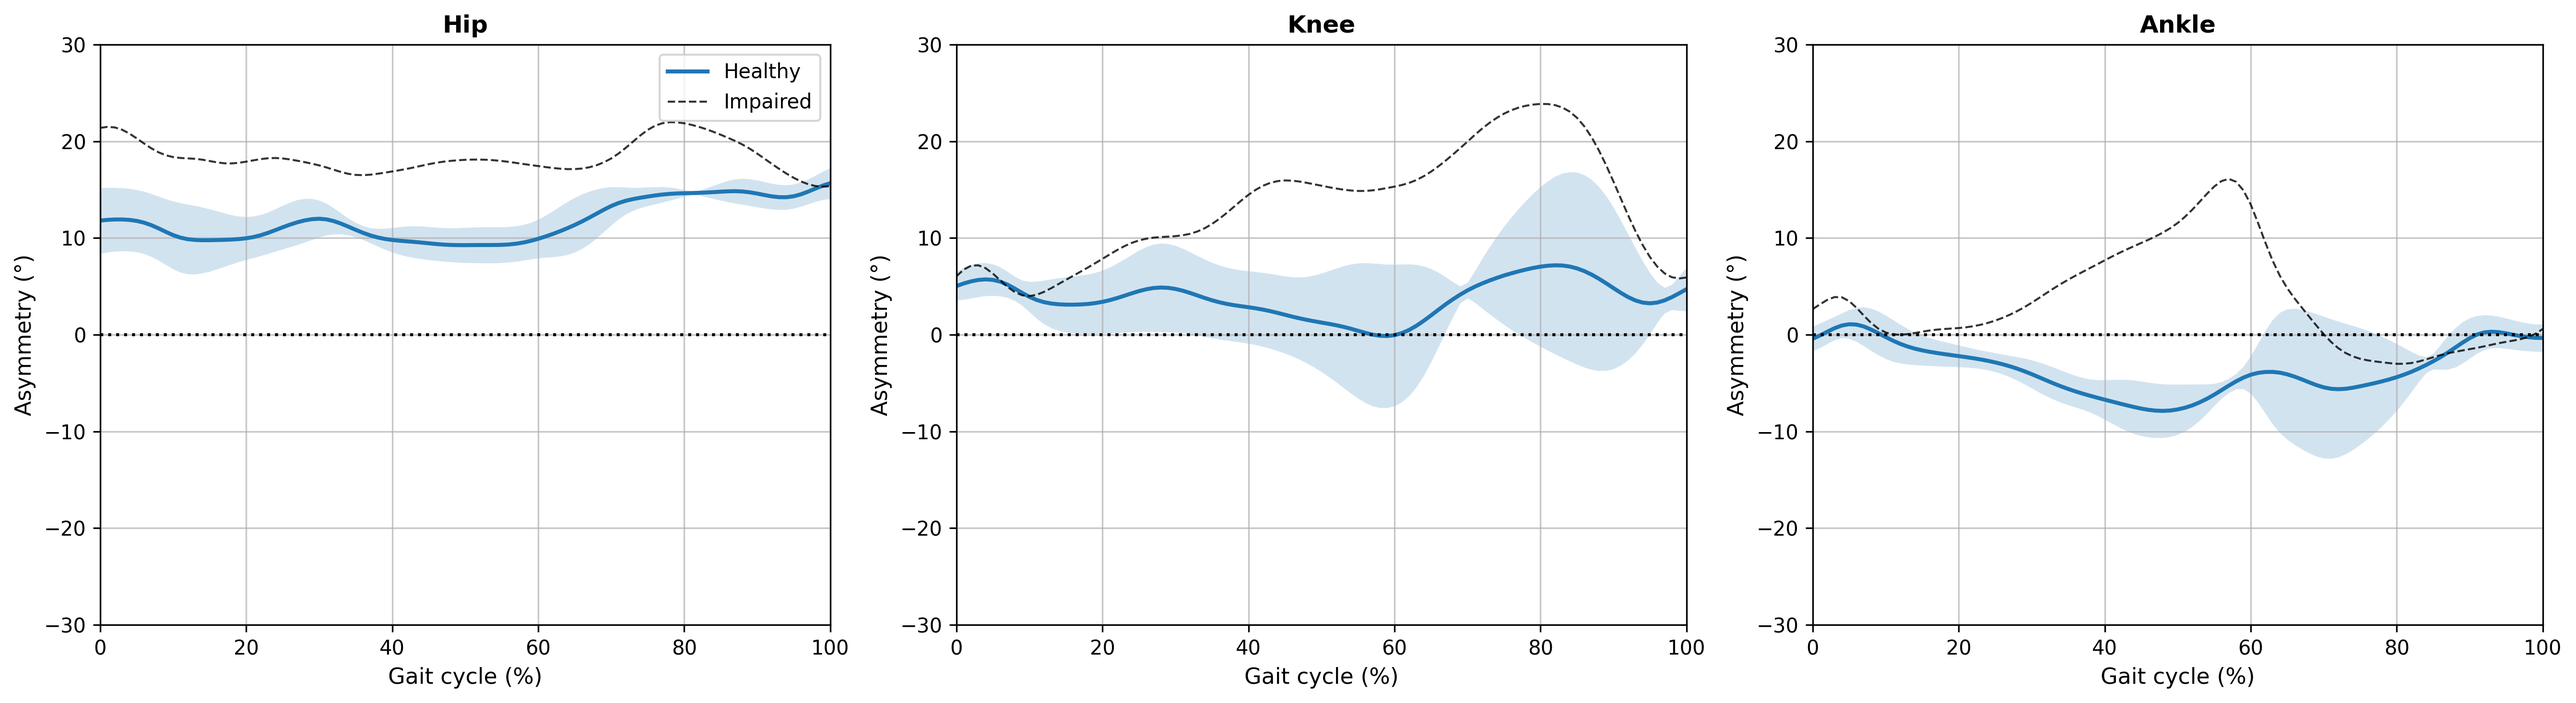
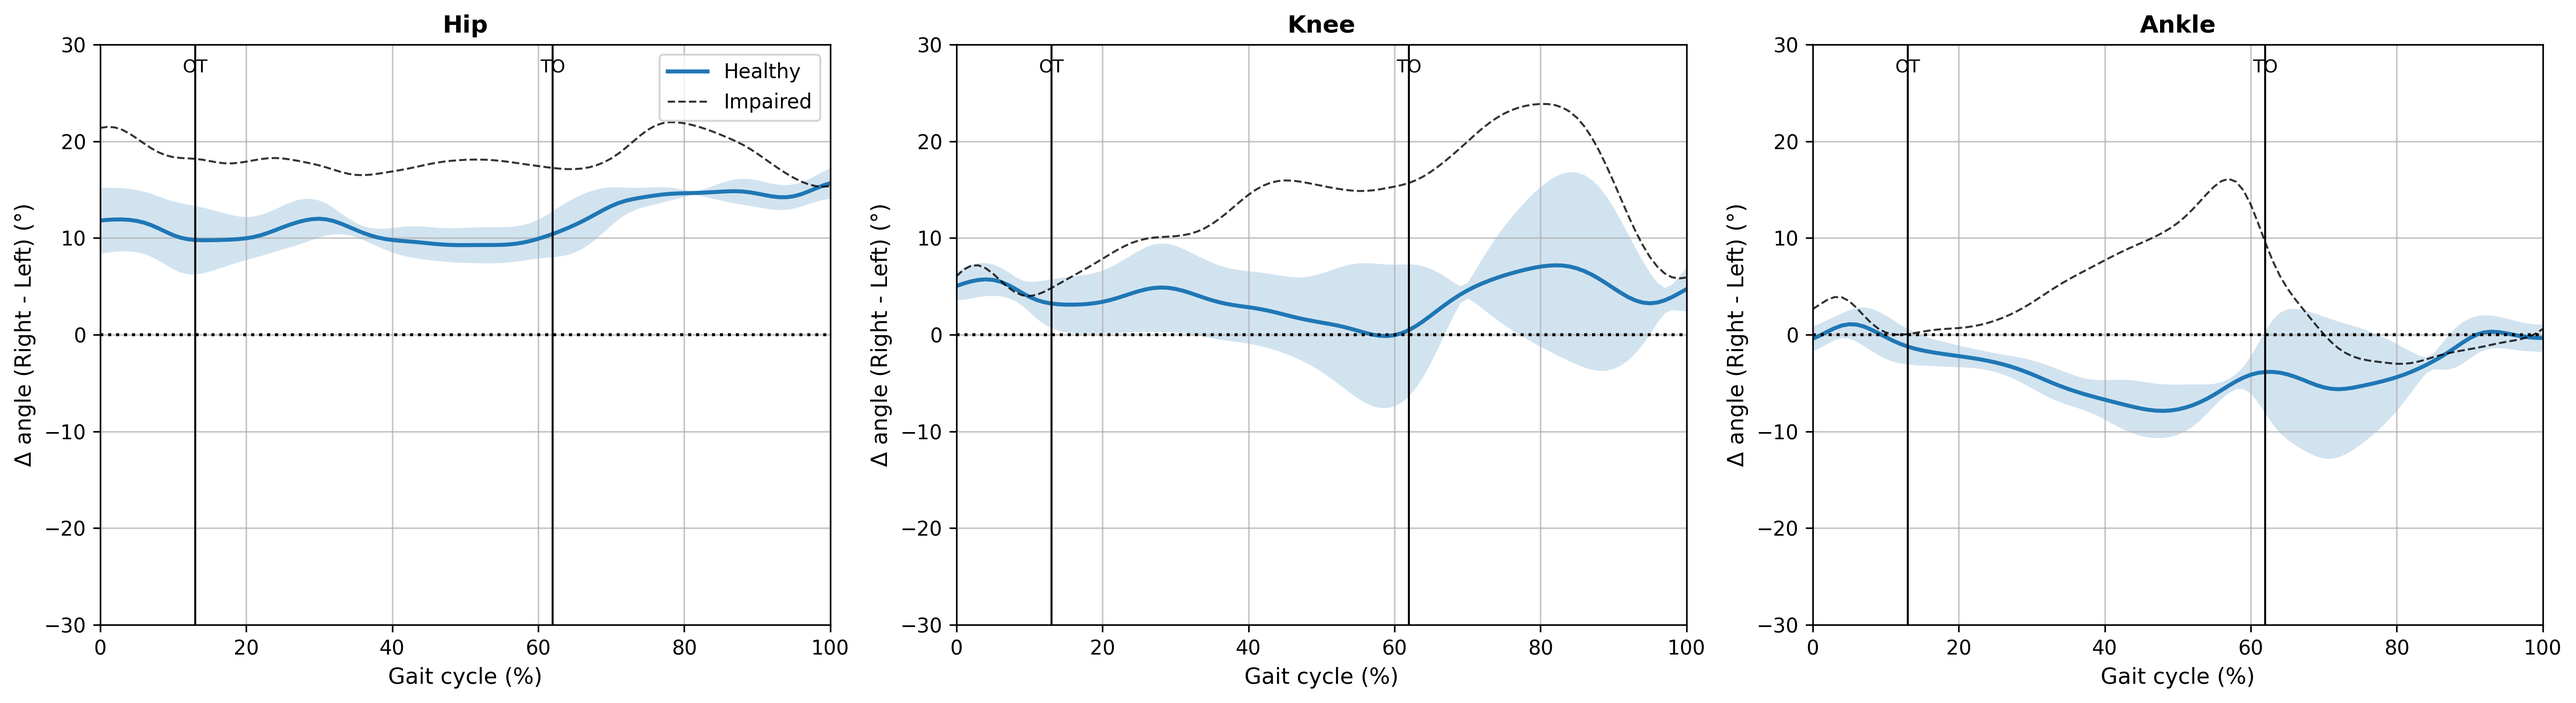
modif kinetics

diff --git a/scripts/main.py b/scripts/main.py
@@ -211,7 +211,6 @@ def kinematics_analysis(file, joints=None):
 def inverse_dynamics(file, joints=None):
     """
     Dynamique inverse : calcul des moments articulaires (Nm/kg)
-
     Retourne :
         dict avec "gc" (0-100%), "left" et "right" (moments normalisés)
     """
@@ -281,92 +280,123 @@ def inverse_dynamics(file, joints=None):
             m_hip = markers_m["HANCHE_D"]
             m_foot = markers_m["PIED_D"]
 
-        # Interpolation des GRF et CoP
+        # Interpolation des GRF et CoP (indices 1=Y, 2=Z)
         cop_y = np.interp(time, fp_time, grw[fp_idx]["P"][:, 1]) / 1000.0
         cop_z = np.interp(time, fp_time, grw[fp_idx]["P"][:, 2]) / 1000.0
         Fy = np.interp(time, fp_time, grw[fp_idx]["F"][:, 1])
         Fz = np.interp(time, fp_time, grw[fp_idx]["F"][:, 2])
 
-        # Cheville (pied)
-        foot_vec = m_foot[:, 1:] - m_ankle[:, 1:]
+        # ========== PIED (calcul à la cheville) ==========
+        # Vecteur du segment pied (cheville -> marqueur pied) dans le plan YZ
+        foot_vec = m_foot[:, 1:] - m_ankle[:, 1:]  # [Y, Z]
         theta_foot = np.arctan2(foot_vec[:, 1], foot_vec[:, 0])
         alpha_foot = compute_derivative(theta_foot, dt, order=2)
 
+        # Centre de masse du pied
         com_foot = m_ankle[:, 1:] + COM_FRAC["Foot"] * foot_vec
-        r_yC_foot = com_foot[:, 0] - m_ankle[:, 1]
-        r_zC_foot = com_foot[:, 1] - m_ankle[:, 2]
 
+        # Accélérations du CoM du pied
         acc_com_foot_y = compute_derivative(com_foot[:, 0], dt, order=2)
         acc_com_foot_z = compute_derivative(com_foot[:, 1], dt, order=2)
 
-        r_yP = cop_y - m_ankle[:, 1]
-        r_zP = cop_z - m_ankle[:, 2]
+        # Bras de levier cheville -> CoM du pied
+        r_y_CoM = com_foot[:, 0] - m_ankle[:, 1]
+        r_z_CoM = com_foot[:, 1] - m_ankle[:, 2]
 
+        # Bras de levier cheville -> CoP
+        r_y_CoP = cop_y - m_ankle[:, 1]
+        r_z_CoP = cop_z - m_ankle[:, 2]
+
+        # Équation de Newton : R_ankle + GRF - m*g = m*a
+        # En Z : R_z + Fz - m*g = m*a_z  =>  R_z = m*a_z + m*g - Fz
+        R_ankle_y = ANTHROPO["Foot"]["mass"] * acc_com_foot_y - Fy
+        R_ankle_z = ANTHROPO["Foot"]["mass"] * acc_com_foot_z + ANTHROPO["Foot"]["mass"] * GRAVITY - Fz
+
+        # Moment à la cheville autour de X : M_x = r_y * F_z - r_z * F_y
+        # ΣM = I*α
+        # M_ankle + M_GRF + M_weight + M_inertia = I*α
         M_ankle = (
-                          ANTHROPO["Foot"]["inertia"] * alpha_foot +
-                          ANTHROPO["Foot"]["mass"] * (r_yC_foot * acc_com_foot_z - r_zC_foot * acc_com_foot_y) +
-                          ANTHROPO["Foot"]["mass"] * GRAVITY * r_yC_foot +
-                          (r_yP * Fz - r_zP * Fy)
-                  ) / BODY_MASS
+            ANTHROPO["Foot"]["inertia"] * alpha_foot -
+            ANTHROPO["Foot"]["mass"] * (r_y_CoM * acc_com_foot_z - r_z_CoM * acc_com_foot_y) -
+            ANTHROPO["Foot"]["mass"] * GRAVITY * r_y_CoM +
+            (r_y_CoP * Fz - r_z_CoP * Fy)
+        ) / BODY_MASS
 
-        # GENOU (jambe)
-        # Réactions à la cheville
-        R_A_y = ANTHROPO["Foot"]["mass"] * acc_com_foot_y - Fy
-        R_A_z = ANTHROPO["Foot"]["mass"] * acc_com_foot_z + ANTHROPO["Foot"]["mass"] * GRAVITY - Fz
-
-        Fdist_y = -R_A_y
-        Fdist_z = -R_A_z
-
+        # ========== JAMBE (calcul au genou) ==========
+        # Vecteur du segment jambe (genou -> cheville)
         leg_vec = m_ankle[:, 1:] - m_knee[:, 1:]
         theta_leg = np.arctan2(leg_vec[:, 1], leg_vec[:, 0])
         alpha_leg = compute_derivative(theta_leg, dt, order=2)
 
+        # Centre de masse de la jambe
         com_leg = m_knee[:, 1:] + COM_FRAC["Leg"] * leg_vec
-        r_yC_leg = com_leg[:, 0] - m_knee[:, 1]
-        r_zC_leg = com_leg[:, 1] - m_knee[:, 2]
 
+        # Accélérations du CoM de la jambe
         acc_com_leg_y = compute_derivative(com_leg[:, 0], dt, order=2)
         acc_com_leg_z = compute_derivative(com_leg[:, 1], dt, order=2)
 
-        r_yA_leg = m_ankle[:, 1] - m_knee[:, 1]
-        r_zA_leg = m_ankle[:, 2] - m_knee[:, 2]
+        # Bras de levier genou -> CoM de la jambe
+        r_y_CoM_leg = com_leg[:, 0] - m_knee[:, 1]
+        r_z_CoM_leg = com_leg[:, 1] - m_knee[:, 2]
 
+        # Bras de levier genou -> cheville
+        r_y_ankle = m_ankle[:, 1] - m_knee[:, 1]
+        r_z_ankle = m_ankle[:, 2] - m_knee[:, 2]
+
+        # Forces distales (action-réaction)
+        F_dist_y = -R_ankle_y
+        F_dist_z = -R_ankle_z
+
+        # Forces de réaction au genou
+        R_knee_y = ANTHROPO["Leg"]["mass"] * acc_com_leg_y - F_dist_y
+        R_knee_z = ANTHROPO["Leg"]["mass"] * acc_com_leg_z + ANTHROPO["Leg"]["mass"] * GRAVITY - F_dist_z
+
+        # Moment au genou autour de X
         M_knee = (
-                         ANTHROPO["Leg"]["inertia"] * alpha_leg +
-                         ANTHROPO["Leg"]["mass"] * (r_yC_leg * acc_com_leg_z - r_zC_leg * acc_com_leg_y) +
-                         ANTHROPO["Leg"]["mass"] * GRAVITY * r_yC_leg +
-                         -(r_yA_leg * Fdist_z - r_zA_leg * Fdist_y) +
-                         -M_ankle * BODY_MASS  # Moment distal
-                 ) / BODY_MASS
+            ANTHROPO["Leg"]["inertia"] * alpha_leg -
+            ANTHROPO["Leg"]["mass"] * (r_y_CoM_leg * acc_com_leg_z - r_z_CoM_leg * acc_com_leg_y) -
+            ANTHROPO["Leg"]["mass"] * GRAVITY * r_y_CoM_leg +
+            (r_y_ankle * F_dist_z - r_z_ankle * F_dist_y) +
+            M_ankle * BODY_MASS
+        ) / BODY_MASS
 
-        # HANCHE (cuisse)
-        R_K_y = ANTHROPO["Leg"]["mass"] * acc_com_leg_y + Fdist_y
-        R_K_z = ANTHROPO["Leg"]["mass"] * acc_com_leg_z + ANTHROPO["Leg"]["mass"] * GRAVITY + Fdist_z
-
-        FdistK_y = -R_K_y
-        FdistK_z = -R_K_z
-
+        # ========== CUISSE (calcul à la hanche) ==========
+        # Vecteur du segment cuisse (hanche -> genou)
         thigh_vec = m_knee[:, 1:] - m_hip[:, 1:]
         theta_thigh = np.arctan2(thigh_vec[:, 1], thigh_vec[:, 0])
         alpha_thigh = compute_derivative(theta_thigh, dt, order=2)
 
+        # Centre de masse de la cuisse
         com_thigh = m_hip[:, 1:] + COM_FRAC["Thigh"] * thigh_vec
-        r_yC_thigh = com_thigh[:, 0] - m_hip[:, 1]
-        r_zC_thigh = com_thigh[:, 1] - m_hip[:, 2]
 
+        # Accélérations du CoM de la cuisse
         acc_com_thigh_y = compute_derivative(com_thigh[:, 0], dt, order=2)
         acc_com_thigh_z = compute_derivative(com_thigh[:, 1], dt, order=2)
 
-        r_yK_thigh = m_knee[:, 1] - m_hip[:, 1]
-        r_zK_thigh = m_knee[:, 2] - m_hip[:, 2]
+        # Bras de levier hanche -> CoM de la cuisse
+        r_y_CoM_thigh = com_thigh[:, 0] - m_hip[:, 1]
+        r_z_CoM_thigh = com_thigh[:, 1] - m_hip[:, 2]
 
+        # Bras de levier hanche -> genou
+        r_y_knee = m_knee[:, 1] - m_hip[:, 1]
+        r_z_knee = m_knee[:, 2] - m_hip[:, 2]
+
+        # Forces distales (action-réaction)
+        F_dist_knee_y = -R_knee_y
+        F_dist_knee_z = -R_knee_z
+
+        # Forces de réaction à la hanche
+        R_hip_y = ANTHROPO["Thigh"]["mass"] * acc_com_thigh_y - F_dist_knee_y
+        R_hip_z = ANTHROPO["Thigh"]["mass"] * acc_com_thigh_z + ANTHROPO["Thigh"]["mass"] * GRAVITY - F_dist_knee_z
+
+        # Moment à la hanche autour de X
         M_hip = (
-                        ANTHROPO["Thigh"]["inertia"] * alpha_thigh +
-                        ANTHROPO["Thigh"]["mass"] * (r_yC_thigh * acc_com_thigh_z - r_zC_thigh * acc_com_thigh_y) +
-                        ANTHROPO["Thigh"]["mass"] * GRAVITY * r_yC_thigh +
-                        -(r_yK_thigh * FdistK_z - r_zK_thigh * FdistK_y) +
-                        -M_knee * BODY_MASS
-                ) / BODY_MASS
+            ANTHROPO["Thigh"]["inertia"] * alpha_thigh -
+            ANTHROPO["Thigh"]["mass"] * (r_y_CoM_thigh * acc_com_thigh_z - r_z_CoM_thigh * acc_com_thigh_y) -
+            ANTHROPO["Thigh"]["mass"] * GRAVITY * r_y_CoM_thigh +
+            (r_y_knee * F_dist_knee_z - r_z_knee * F_dist_knee_y) +
+            M_knee * BODY_MASS
+        ) / BODY_MASS
 
         moments[side] = {"Ankle": M_ankle, "Knee": M_knee, "Hip": M_hip}
 
@@ -444,7 +474,7 @@ for joint in JOINTS:
 gc_kin_moments, moments_healthy = analyze_group(HEA, inverse_dynamics, JOINTS)
 _, moments_impaired = analyze_group(IMP, inverse_dynamics, JOINTS)
 
-# Asymetrie
+# Asymétrie
 diff_imp_vs_hea = {}
 for joint in JOINTS:
     hea_R = np.array(angles_healthy[joint]["right"]).mean(axis=0)
@@ -526,10 +556,21 @@ for i, joint in enumerate(JOINTS):
     ax.axhline(0, color="k", linestyle=":", linewidth=1.5)
     ax.set_title(f"{joint}", fontsize=12, fontweight="bold")
     ax.set_xlabel("Gait cycle (%)", fontsize=11)
-    ax.set_ylabel("Asymmetry (°)", fontsize=11)
+    ax.set_ylabel("Δ angle (Right - Left) (°)", fontsize=11)
     ax.set_xlim(0, 100)
     ax.set_ylim(-30, 30)
     ax.grid(True, alpha=0.7)
+
+    OT = 13
+    TO = 62
+
+    ax.axvline(OT, color="k", linewidth=1)
+    ax.axvline(TO, color="k", linewidth=1)
+
+    ax.text(OT, ax.get_ylim()[1]*0.95, "OT",
+            ha="center", va="top", fontsize=9)
+    ax.text(TO, ax.get_ylim()[1]*0.95, "TO",
+            ha="center", va="top", fontsize=9)
 
 axes[0].legend(loc="upper right", fontsize=10)
 plt.tight_layout()
@@ -555,6 +596,17 @@ for i, joint in enumerate(JOINTS):
     ax.set_xlim(0, 100)
     ax.set_ylim(-20, 20)
     ax.grid(True, alpha=0.7)
+
+    OT = 13
+    TO = 62
+
+    ax.axvline(OT, color="k", linewidth=1)
+    ax.axvline(TO, color="k", linewidth=1)
+
+    ax.text(OT, ax.get_ylim()[1]*0.95, "OT",
+            ha="center", va="top", fontsize=9)
+    ax.text(TO, ax.get_ylim()[1]*0.95, "TO",
+            ha="center", va="top", fontsize=9)
 
 axes[0].legend(loc="upper right", fontsize=10)
 plt.tight_layout()
@@ -587,13 +639,24 @@ for i, joint in enumerate(JOINTS):
     ax.set_xlim(0, 100)
     ax.grid(True, alpha=0.7)
 
+    OT = 13
+    TO = 62
+
+    ax.axvline(OT, color="k", linewidth=1)
+    ax.axvline(TO, color="k", linewidth=1)
+
+    ax.text(OT, ax.get_ylim()[1]*0.95, "OT",
+            ha="center", va="top", fontsize=9)
+    ax.text(TO, ax.get_ylim()[1]*0.95, "TO",
+            ha="center", va="top", fontsize=9)
+
 axes[0].set_ylabel("Moment (Nm/kg)", fontsize=11)
 axes[0].legend(loc="upper right", fontsize=10)
 
 plt.tight_layout()
 plt.savefig(output_dir / "joint_moments.png", dpi=300, bbox_inches='tight')
 plt.close()
-#
+
 # # ═══════════════════════════════════════════════════════════════════════════
 # # STATISTIQUES
 # # ═══════════════════════════════════════════════════════════════════════════
